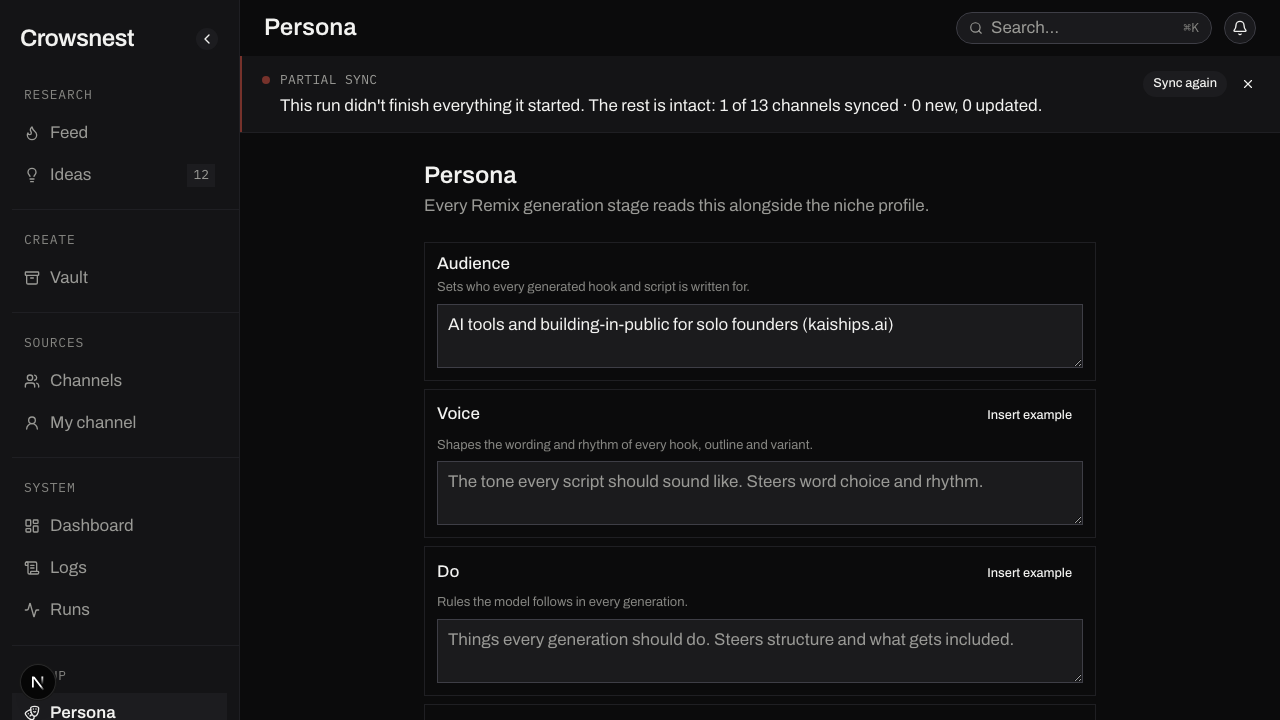
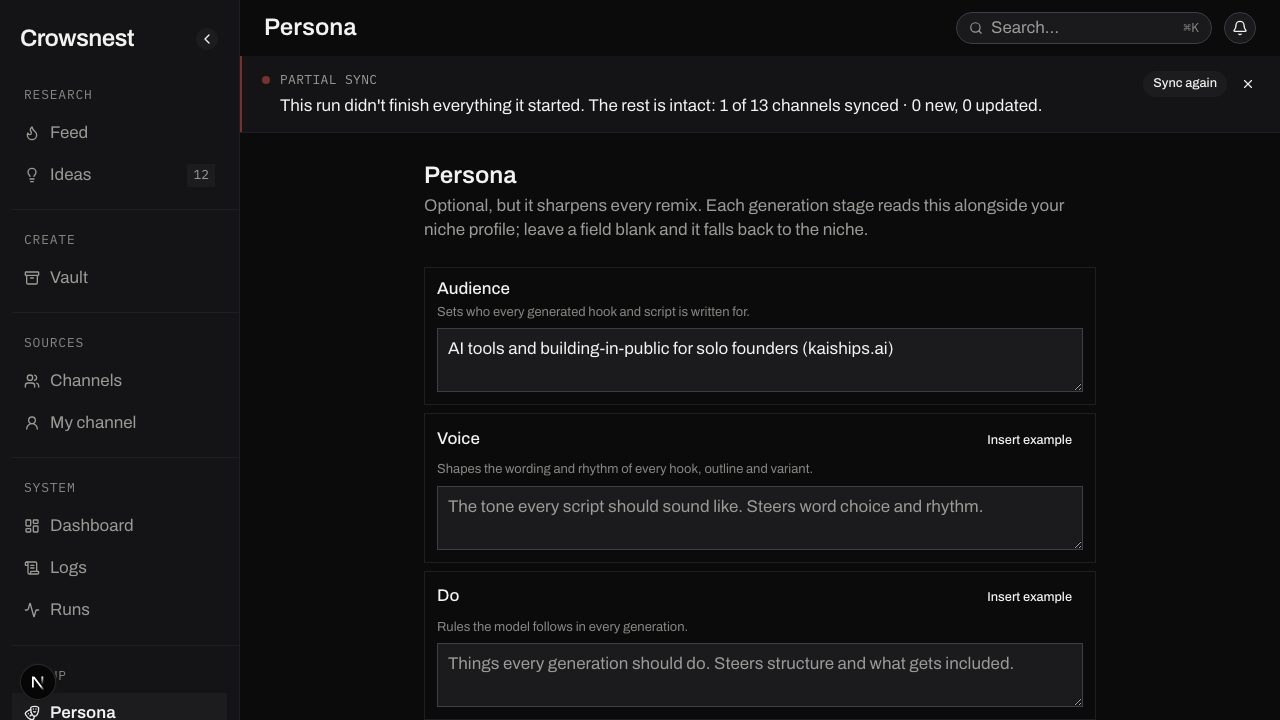
feat(persona): frame persona as optional refinement (round 2 product pass)
Round 2 first-time-user product pass. Reduces the blank-field intimidation the
board named by telling the user persona is optional and falls back to the niche.
Declined frictions logged: soft-nav edit loss (analyze B-18), keyless Create
Prompt not surfaced on blocked remix stages (remix B-19).

Claude-Session: https://claude.ai/code/session_01XbUniwFzh3eahwW2AMyvYH

diff --git a/src/components/settings/persona-section.tsx b/src/components/settings/persona-section.tsx
@@ -97,7 +97,10 @@ export function PersonaSection({ initial }: { initial: Persona }) {
     <section className="flex flex-col gap-6">
       <div>
         <h2 className="text-lg font-semibold">Persona</h2>
-        <p className="text-sm text-muted-foreground">Every Remix generation stage reads this alongside the niche profile.</p>
+        <p className="text-sm text-muted-foreground">
+          Optional, but it sharpens every remix. Each generation stage reads this alongside your niche profile; leave a
+          field blank and it falls back to the niche.
+        </p>
       </div>
 
       <div className="flex flex-col gap-2">

diff --git a/documents/architect/core-components/remix/05-backlog-to-enhance.md b/documents/architect/core-components/remix/05-backlog-to-enhance.md
@@ -7,3 +7,4 @@ Bugs and enhancements for remix. One row per item.
 | B-02 | A failed research assembly leaves the stage stuck on the skeleton loader | medium | bug | bug-triage | open |
 | B-03 | Regenerating the outline leaves stale script variants in place with no warning | medium | bug | bug-triage | open |
 | B-11 | Quick Remix is not blocked when the proxy is down, unlike other generation controls | low | bug | bug-triage | open |
+| B-19 | Blocked generation stages do not surface the keyless Create Prompt path, so a first-time user with no key hits a wall on Hook, Style and Script | low | enhancement | wave2-product-pass | open |
